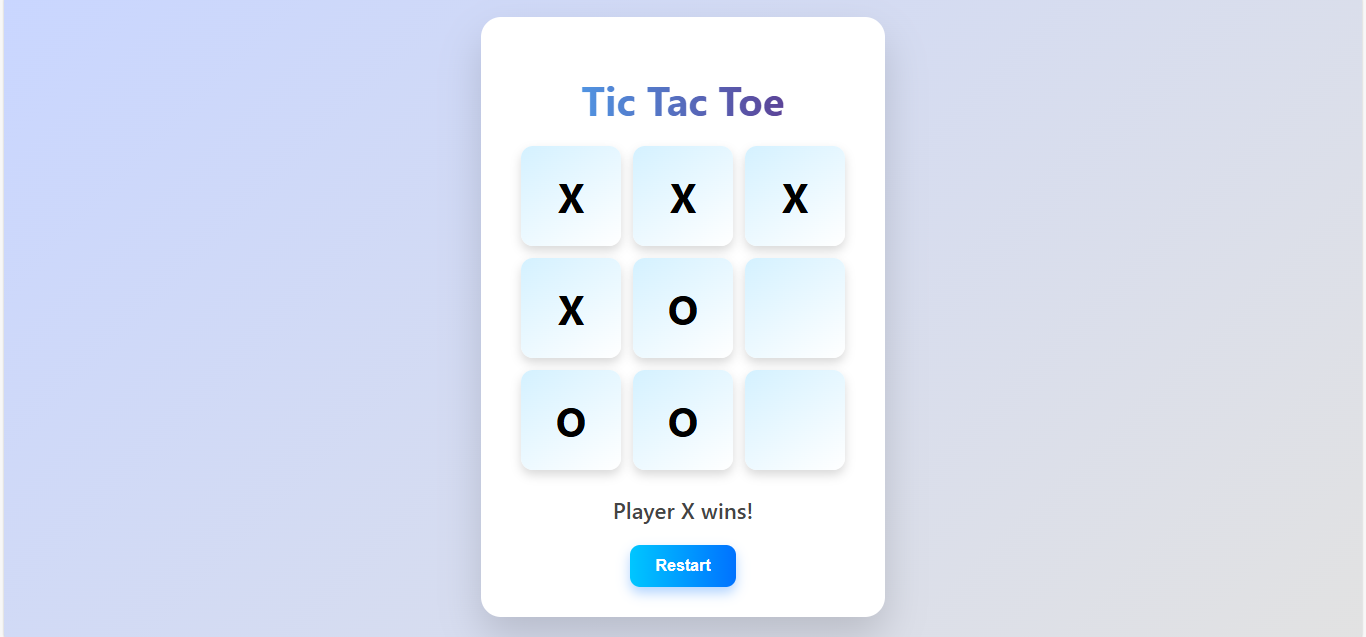
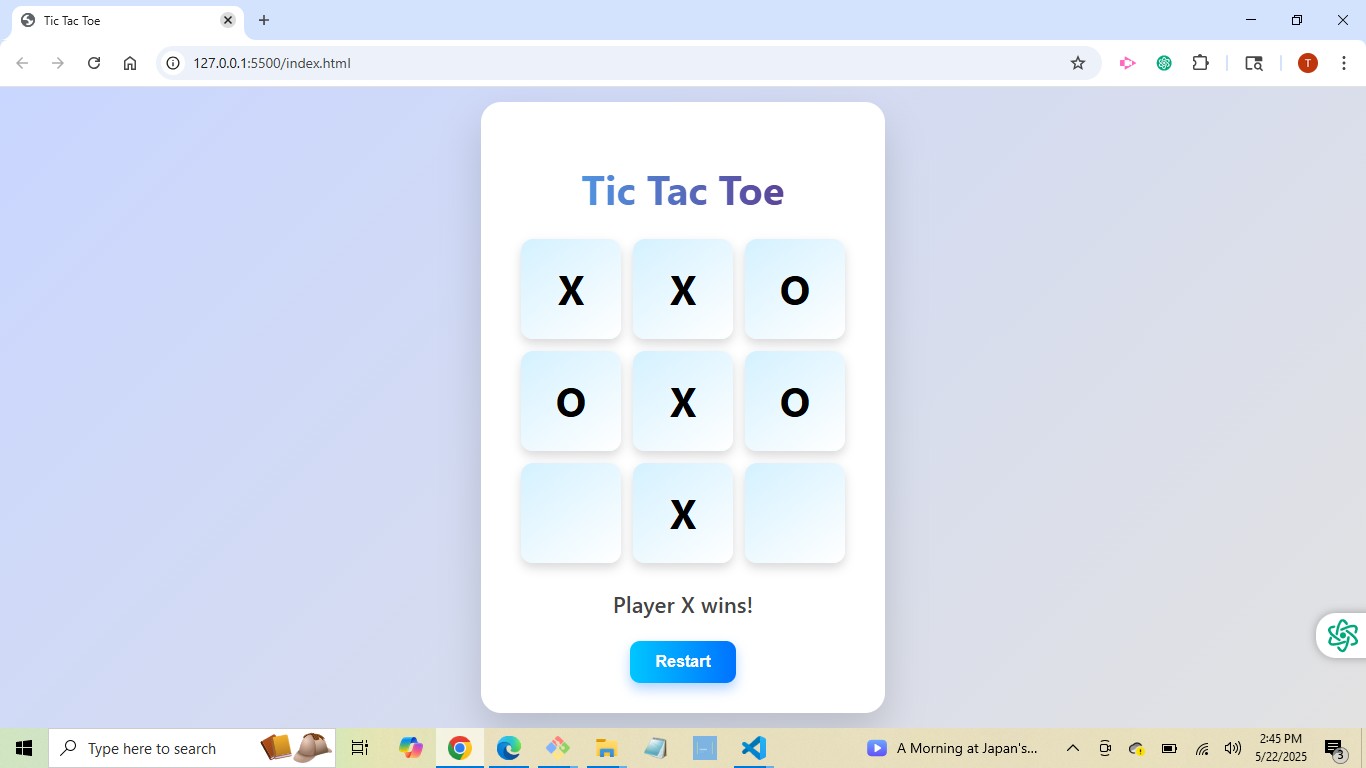
updated files

diff --git a/src/components/Portfolio.jsx b/src/components/Portfolio.jsx
@@ -7,51 +7,40 @@ export default function Portfolio() {
   const [isVisible, setIsVisible] = useState({});
 
   const skills = [
-    { name: 'HTML', level: 85, icon: <Code className="w-5 h-5" /> },
-    { name: 'JavaScript', level: 85, icon: <Code className="w-5 h-5" /> },
-    { name: 'React', level: 80, icon: <Code className="w-5 h-5" /> },
-    { name: 'CSS/Tailwind', level: 80, icon: <Palette className="w-5 h-5" /> },
-    { name: 'Node.js', level: 85, icon: <Database className="w-5 h-5" /> },
-    { name: 'SQL', level: 85, icon: <Database className="w-5 h-5" /> },
-    { name: 'MongoDB', level: 80, icon: <Database className="w-5 h-5" /> },
-    { name: 'REST API', level: 80, icon: <Code className="w-5 h-5" /> },
-    { name: 'Git/GitHub', level: 90, icon: <Code className="w-5 h-5" /> },
-    { name: 'AI', level: 90, icon: <Briefcase className="w-5 h-5" /> },
-    { name: 'TypeScript', level: 80, icon: <Code className="w-5 h-5" /> },
-    { name: 'Next.js', level: 80, icon: <Code className="w-5 h-5" /> },
+    { name: 'HTML', icon: <Code className="w-5 h-5" /> },
+    { name: 'JavaScript', icon: <Code className="w-5 h-5" /> },
+    { name: 'Responsive Design', icon: <Code className="w-5 h-5" /> },
+    { name: 'CSS', icon: <Palette className="w-5 h-5" /> },
+    { name: 'Node.js', icon: <Database className="w-5 h-5" /> },
+    { name: 'Async/Await', icon:  <Database className="w-5 h-5" /> },
+    { name: 'DOM Manipulation', icon: <Database className="w-5 h-5" /> },
+    { name: 'REST API', icon: <Code className="w-5 h-5" /> },
+    { name: 'Git/GitHub', icon: <Code className="w-5 h-5" /> },
+    { name: 'Vs Code',  icon: <Briefcase className="w-5 h-5" /> },
   ];
 
   const projects = [
     {
-      title: 'Lexi AI',
-      description: 'An AI-powered chatbot application designed to provide intelligent and interactive conversations. Built with TypeScript, JavaScript, and styled using Tailwind CSS for a modern and responsive UI.🚨 Reminder The live website is just for preview but in order to get AI repsonse the program to has be ran locally then open to localhost.',
-      tech: ['TypeScript', 'JavaScript', 'TailwindCSS'],
-      image: '/LexiAI.png',
-      github: 'https://github.com/DippaFudd/Lexi-AI',
-      live: 'https://lexi-ai-two.vercel.app/'
-    },
-    {
       title: 'Weather App',
       description: 'A weather application that provides real-time weather data and forecasts using the OpenWeather API. Built with JavaScript, HTML and CSS.',
-      tech: ['JavaScript','HTML','CSS'],
+      tech: ['HTML','CSS','JavaScript'],
       image: '/WeatherApp.png',
       github: 'https://github.com/DippaFudd/Weather-App',
       live: 'https://dippafudd.github.io/Weather-App/'
     },
     {
-      title: 'Crypto Dashboard',
-      description: 'A cryptocurrency dashboard that displays real-time prices, market data, and trends. Built with JavaScript, TypeScript, and Tailwind CSS.',
-      tech: ['JavaScript', 'TypeScript', 'Tailwind CSS'],
-      image: '/CD.png',
-      github: 'https://github.com/DippaFudd/Crypto-dashboard',
-      live: 'https://crypto-dashboard-three-orcin.vercel.app/'
+      title: 'PawMood',
+      description: 'A pet mood tracker that allows users to log their pets moods and activities. Built with HTML, CSS, and JavaScript ..This is a Group Project.',
+      tech: ['HTML', 'CSS', 'JavaScript'],
+      image: '/PawMood.png',
+      github: 'https://github.com/AndresZ25/PawMood-Project-1',
+      live: 'https://andresz25.github.io/PawMood-Project-1/'
     },
-    { title: 'Portfolio Website',
-      description: 'A personal portfolio website showcasing my projects, skills, and contact information. Built with React and Tailwind CSS.',
-      tech: ['React', 'Tailwind CSS'],
-      image: '/Portfolio.png',
-      github: 'https://github.com/DippaFudd/React-Portfolio',
-      live: 'https://react-portfolio-ashen-nine.vercel.app/'
+    { title: 'README Generator',
+      description: 'A command-line application that generates a professional README.md file based on user input. Built with Node.js and Inquirer.',
+      tech: ['JavaScript'],
+      image: '/README.png',
+      github: 'https://github.com/DippaFudd/README-generator',
     },
     { title: 'Tic-Tac-Toe Game',
       description: 'A simple Tic-Tac-Toe game built with HTML, CSS, and JavaScript. Features include a responsive design and local storage for game state.',
@@ -60,13 +49,6 @@ export default function Portfolio() {
       github: 'https://github.com/DippaFudd/Tic_Tac_Toe',
       live: 'https://tic-tac-toe-self-one-63.vercel.app/'
     },
-    { title: 'JRecruiter',
-      description: 'A job board application that connects job seekers with employers. Built with TypeScript, TailwindCSS, and JavaScript.🛠 Most of site is up and functional but is still under construction.',
-      tech: ['TypeScript','Tailwind CSS', 'JavaScript'],
-      image: '/JRecruiter.png',
-      github: 'https://github.com/DippaFudd/JRecruiter',
-      live: 'https://j-recruiter.vercel.app/'
-    }
   ];
 
   useEffect(() => {
@@ -253,39 +235,32 @@ export default function Portfolio() {
       </section>
 
       {/* Skills Section */}
-      <section id="skills" className="py-20 px-4 bg-black/20">
-        <div className="max-w-6xl mx-auto">
-          <h2 className="text-4xl font-bold text-center mb-12 bg-gradient-to-r from-blue-400 to-cyan-400 bg-clip-text text-transparent">
-            Skills & Technologies
-          </h2>
-          
-          <div className="grid md:grid-cols-2 lg:grid-cols-3 gap-8">
-            {skills.map((skill, index) => (
-              <div
-                key={skill.name}
-                className={`bg-white/5 backdrop-blur-sm rounded-xl p-6 border border-white/10 transform transition-all duration-700 hover:scale-105 ${
-                  isVisible.skills ? 'translate-y-0 opacity-100' : 'translate-y-10 opacity-0'
-                }`}
-                style={{ transitionDelay: `${index * 100}ms` }}
-              >
-                <div className="flex items-center space-x-3 mb-4">
-                  <div className="text-blue-400">{skill.icon}</div>
-                  <h3 className="text-xl font-semibold">{skill.name}</h3>
-                </div>
-                
-                <div className="w-full bg-gray-700 rounded-full h-2 mb-2">
-                  <div
-                    className="bg-gradient-to-r from-blue-500 to-cyan-500 h-2 rounded-full transition-all duration-1000 ease-out"
-                    style={{ width: isVisible.skills ? `${skill.level}%` : '0%' }}
-                  ></div>
-                </div>
-                
-                <span className="text-sm text-gray-400">{skill.level}%</span>
-              </div>
-            ))}
+<section id="skills" className="py-20 px-4 bg-black/20">
+  <div className="max-w-6xl mx-auto">
+    <h2 className="text-4xl font-bold text-center mb-12 bg-gradient-to-r from-blue-400 to-cyan-400 bg-clip-text text-transparent">
+      Skills & Technologies
+    </h2>
+
+    <div className="grid md:grid-cols-2 lg:grid-cols-3 gap-8">
+      {skills.map((skill, index) => (
+        <div
+          key={skill.name}
+          className={`bg-white/5 backdrop-blur-sm rounded-xl p-6 border border-white/10 transform transition-all duration-700 hover:scale-105 ${
+            isVisible.skills
+              ? 'translate-y-0 opacity-100'
+              : 'translate-y-10 opacity-0'
+          }`}
+          style={{ transitionDelay: `${index * 100}ms` }}
+        >
+          <div className="flex items-center space-x-3">
+            <div className="text-blue-400">{skill.icon}</div>
+            <h3 className="text-xl font-semibold">{skill.name}</h3>
           </div>
         </div>
-      </section>
+      ))}
+    </div>
+  </div>
+</section>
 
       {/* Projects Section */}
       <section id="projects" className="py-20 px-4">
